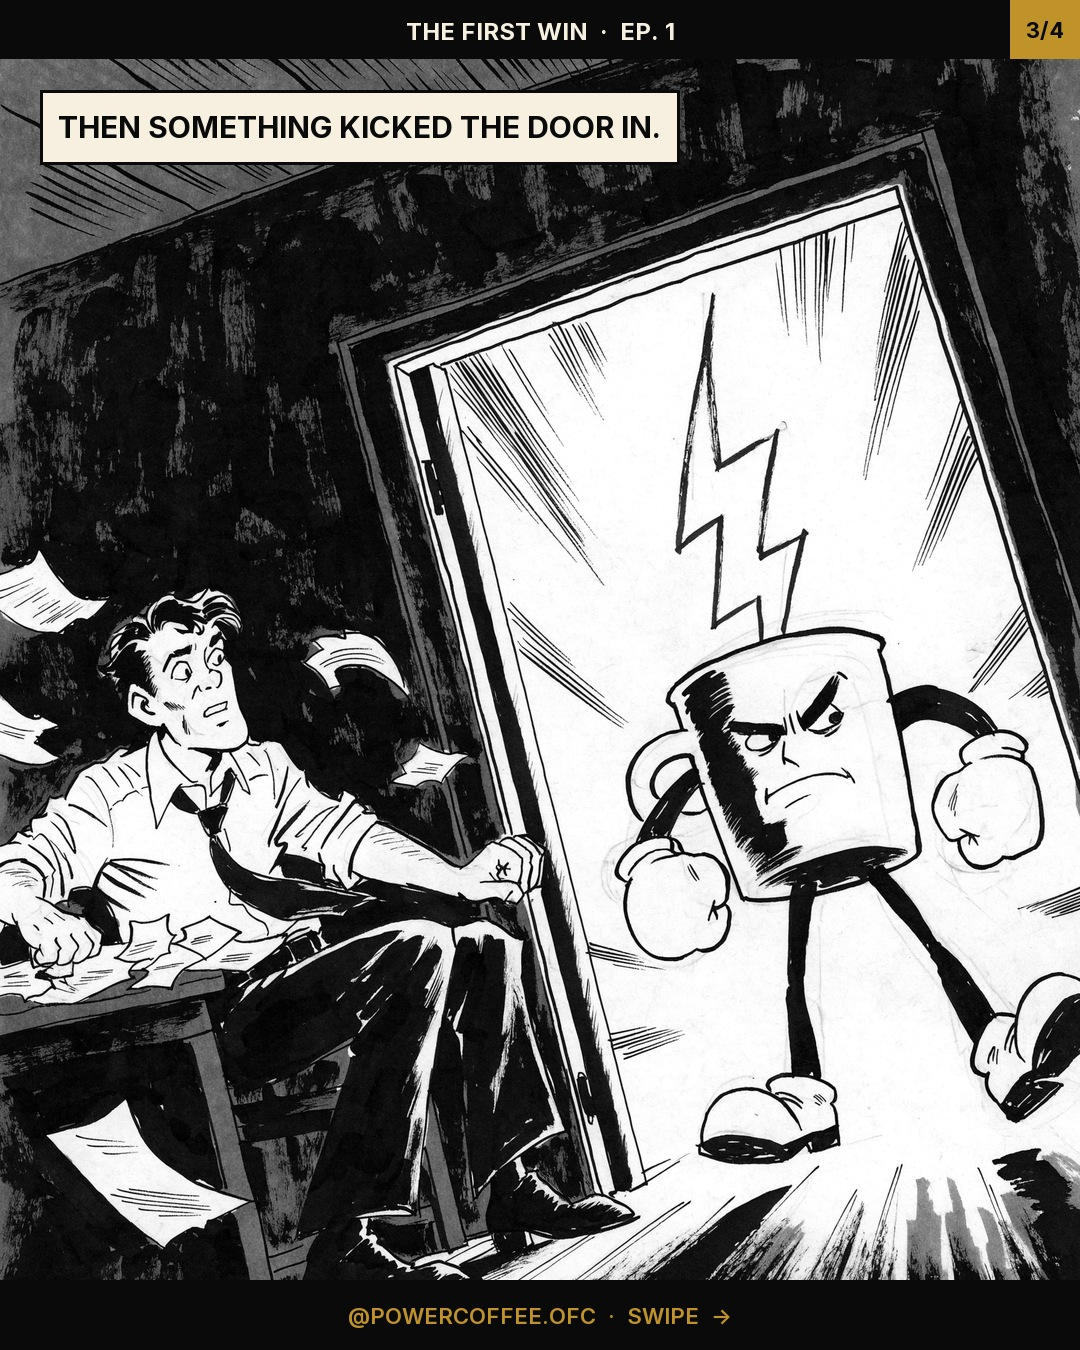
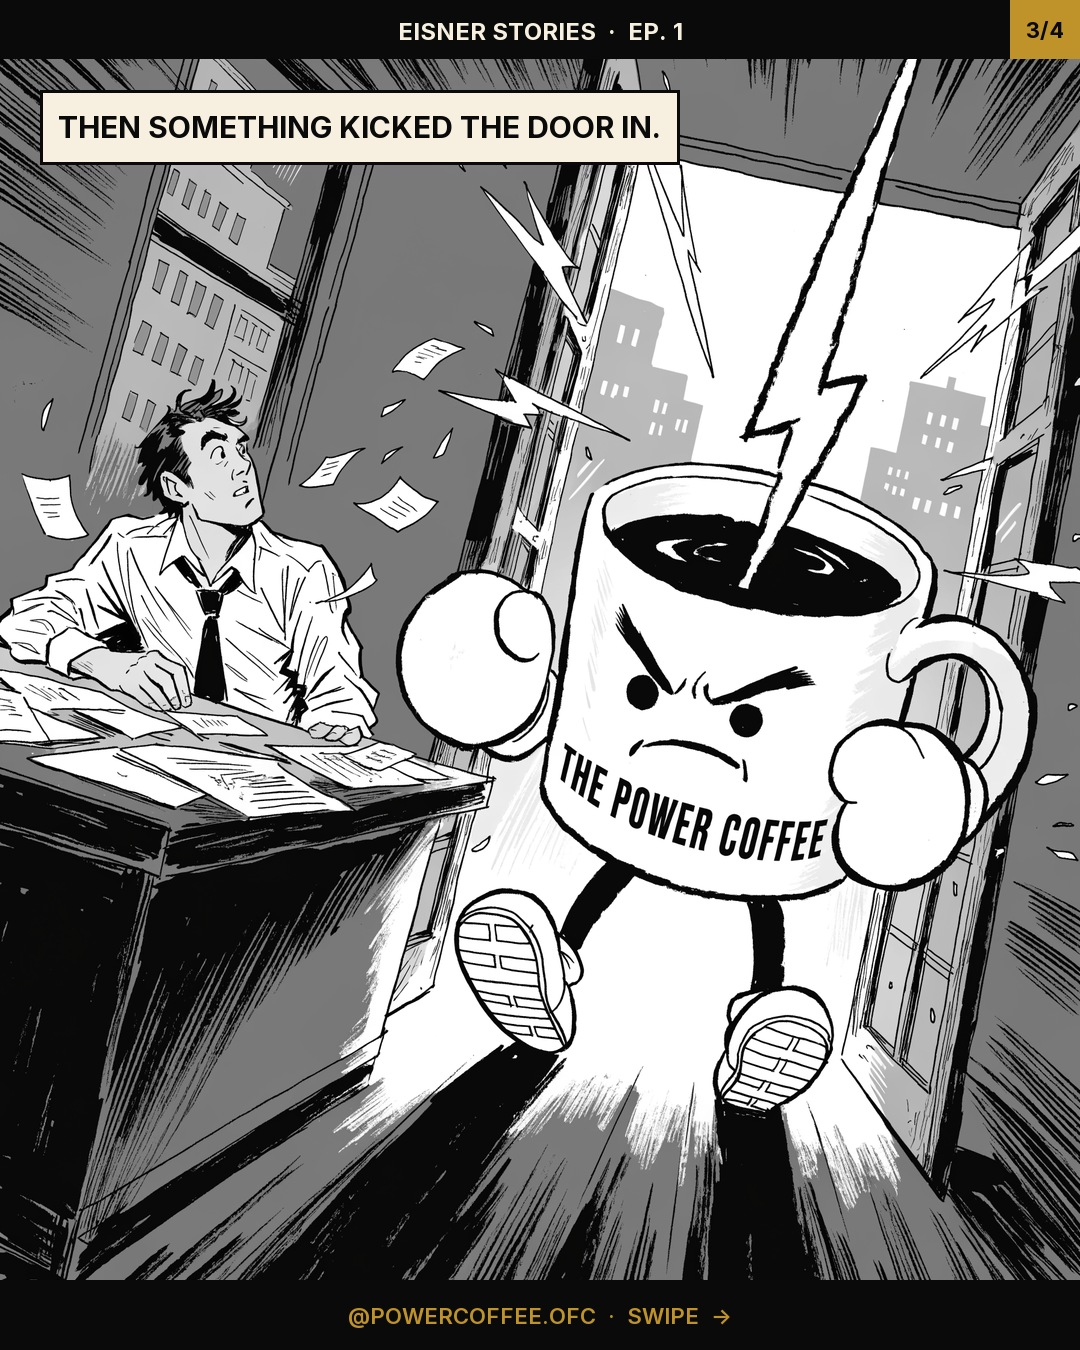
content: aug02_2026 — rename series to Eisner Stories, improve mascot likeness

diff --git a/daily_content/aug2026_content/aug02_2026/content.md b/daily_content/aug2026_content/aug02_2026/content.md
@@ -1,5 +1,5 @@
 # Power Coffee — Content for August 02, 2026
-**Pillar:** P7 — WEEKLY COMIC (THE FIRST WIN) | **Day:** Sunday | **Comic Episode:** 1 — "The First Win"
+**Pillar:** P7 — WEEKLY COMIC (EISNER STORIES BY POWER COFFEE) | **Day:** Sunday | **Comic Episode:** 1 — "The First Win"
 
 ---
 ## APPROVAL
@@ -9,7 +9,7 @@
 
 ## INSTAGRAM
 ### Carousel Copy
-**Format note:** "The First Win" weekly comic — Eisner-noir 4-panel carousel. Different protagonist every episode; only the mascot recurs, always redrawn in-style (never the flat logo). Panels generated interactively via the Higgsfield MCP tool (the automated Higgsfield REST API is currently broken — see growth_playbooks/the_first_win_comic_series.md), then composited by make_comic_episode.py. If carousel_1-4.jpg aren't in this folder yet, generate them from the prompts below and run: python3 make_comic_episode.py aug02_2026 --compose-only
+**Format note:** "Eisner Stories by Power Coffee" weekly comic — Eisner-noir 4-panel carousel. Different protagonist every episode; only the mascot recurs, always redrawn in-style (never the flat logo). Panels generated interactively via the Higgsfield MCP tool (the automated Higgsfield REST API is currently broken — see growth_playbooks/the_first_win_comic_series.md), then composited by make_comic_episode.py. If carousel_1-4.jpg aren't in this folder yet, generate them from the prompts below and run: python3 make_comic_episode.py aug02_2026 --compose-only
 
 **Slide 1:**
 ANOTHER CITY. ANOTHER MONDAY. SAME TIRED EYES.
@@ -26,7 +26,7 @@ THE FIRST WIN OF THE DAY. EVERY DAY.
 ---
 
 ### Caption
-New episode of The First Win — swipe through. Episode 1: "The First Win."
+New episode of Eisner Stories by Power Coffee — swipe through. Episode 1: "The First Win."
 
 Every Sunday, a different daily-life struggle. Same first win at the end of it.
 
@@ -39,13 +39,13 @@ Every Sunday, a different daily-life struggle. Same first win at the end of it.
 
 ## X.COM
 ### Post
-New episode of The First Win just went up on Instagram — Episode 1: "The First Win." A weekly noir comic about the daily grind, and the first win that gets you through it. Swipe through @powercoffee.ofc.
+New episode of Eisner Stories by Power Coffee just went up on Instagram — Episode 1: "The First Win." A weekly noir comic about the daily grind, and the first win that gets you through it. Swipe through @powercoffee.ofc.
 
 ---
 
 ## LINKEDIN
 ### Post
-This week's episode of our comic series "The First Win" just went up.
+This week's episode of our comic series "Eisner Stories by Power Coffee" just went up.
 
 It's a small noir-style strip about an ordinary daily-life struggle — different one every week — and the first win that turns the day around.
 
@@ -57,7 +57,7 @@ Full episode on Instagram @powercoffee.ofc.
 
 ## TELEGRAM
 ### Message
-New comic just dropped — Episode 1 of "The First Win," our weekly noir strip about the daily grind and the first win that gets you through it.
+New comic just dropped — Episode 1 of "Eisner Stories by Power Coffee," our weekly noir strip about the daily grind and the first win that gets you through it.
 
 Full episode on Instagram if you want to swipe through: @powercoffee.ofc
 
@@ -75,7 +75,7 @@ Black and white noir comic book illustration in the style of Will Eisner's The S
 Black and white noir comic book illustration in the style of Will Eisner's The Spirit. Heavy ink shadows, dramatic high-contrast lighting, bold expressive brush linework, 1940s urban atmosphere. Monochrome black and white only, no color. No text or lettering in the image. The same weary man - early 30s, short dark hair, day-old stubble, rumpled white dress shirt sleeves rolled up, loosened tie - slumped at a cluttered office desk, head in one hand, harsh venetian-blind shadow stripes cutting across his face and the wall behind him, a wall clock reading past 2 o'clock, an empty coffee cup in the foreground.
 
 **Panel 3 prompt:**
-Black and white noir comic book illustration in the style of Will Eisner's The Spirit. Heavy ink shadows, dramatic high-contrast lighting, bold expressive brush linework, 1940s urban atmosphere. Monochrome black and white only, no color. No text or lettering in the image. A doorway bursts open with a dramatic burst of white light and radiating action lines, low dramatic angle looking up. The same weary man - early 30s, rumpled white dress shirt, loosened tie - reacts with surprise, turning toward the light, papers flying off his desk. Striding confidently through the doorway out of the light is an anthropomorphic coffee mug with a determined face, muscular cartoon arms and legs, clenched boxing-glove-style fists raised in a fighting stance, a jagged lightning bolt bursting upward from the top of the mug like steam. This mug character is drawn in the exact same bold ink linework and high-contrast noir style as the rest of the panel - thick expressive brush strokes, dramatic ink shadow, fully integrated into the scene like a real character, not a flat sticker or logo.. Comic book energy lines radiating from the doorway around him.
+Black and white noir comic book illustration in the style of Will Eisner's The Spirit. Heavy ink shadows, dramatic high-contrast lighting, bold expressive brush linework, 1940s urban atmosphere. Monochrome black and white only, no color. No text or lettering in the image. A doorway bursts open with a dramatic burst of white light and radiating action lines, low dramatic angle looking up. The same weary man - early 30s, rumpled white dress shirt, loosened tie - reacts with surprise, turning toward the light, papers flying off his desk. Striding confidently through the doorway out of the light is the Power Coffee mascot: a stout white ceramic coffee mug character with a curved handle on one side and 'THE POWER COFFEE' printed on its body in bold black block letters, black coffee visible at the rim with a jagged lightning bolt bursting straight up out of it like steam, thick bold black cartoon outline on every edge, an angry determined cartoon face on the front of the mug, two big round white boxing-glove-style mitten hands raised in a fighting stance, simple black tube legs ending in white cartoon sneakers with visible tread lines. Keep his flat bold-outline mascot-logo proportions recognizable, but render him with the same ink cross-hatching, brush texture and dramatic shadow as the rest of the panel so he's a real inked character in the scene, not a pasted flat sticker or logo. Comic book energy lines radiating from the doorway around him.
 
 **Panel 4 prompt:**
 Black and white noir comic book illustration in the style of Will Eisner's The Spirit. Heavy ink shadows, dramatic high-contrast lighting, bold expressive brush linework, 1940s urban atmosphere. Monochrome black and white only, no color. No text or lettering in the image. The same man - early 30s, rumpled white dress shirt sleeves rolled up, loosened tie now straightened with more confidence - stands tall on a fire escape overlooking a city skyline at sunrise, hands on the rail, chin up, determined posture, silhouetted against a bright sunburst sky.
